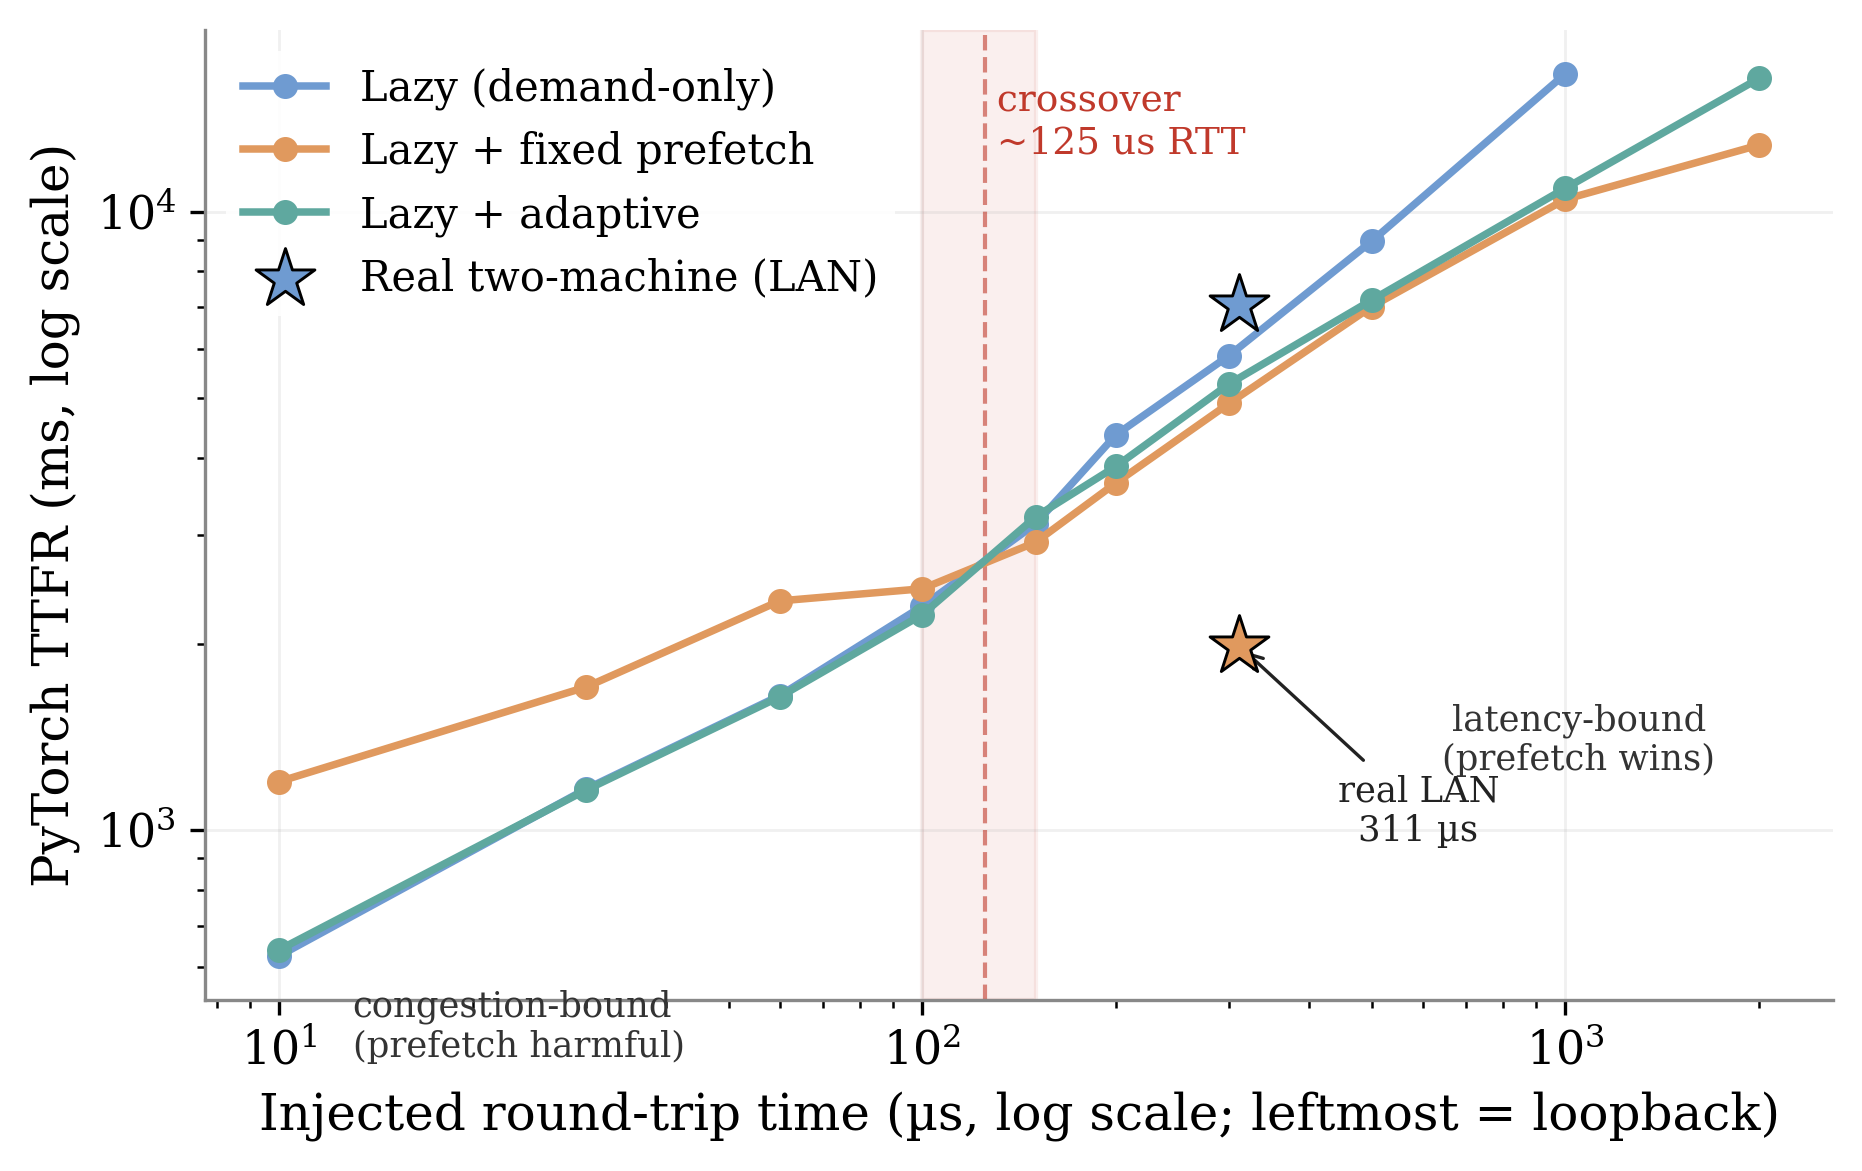
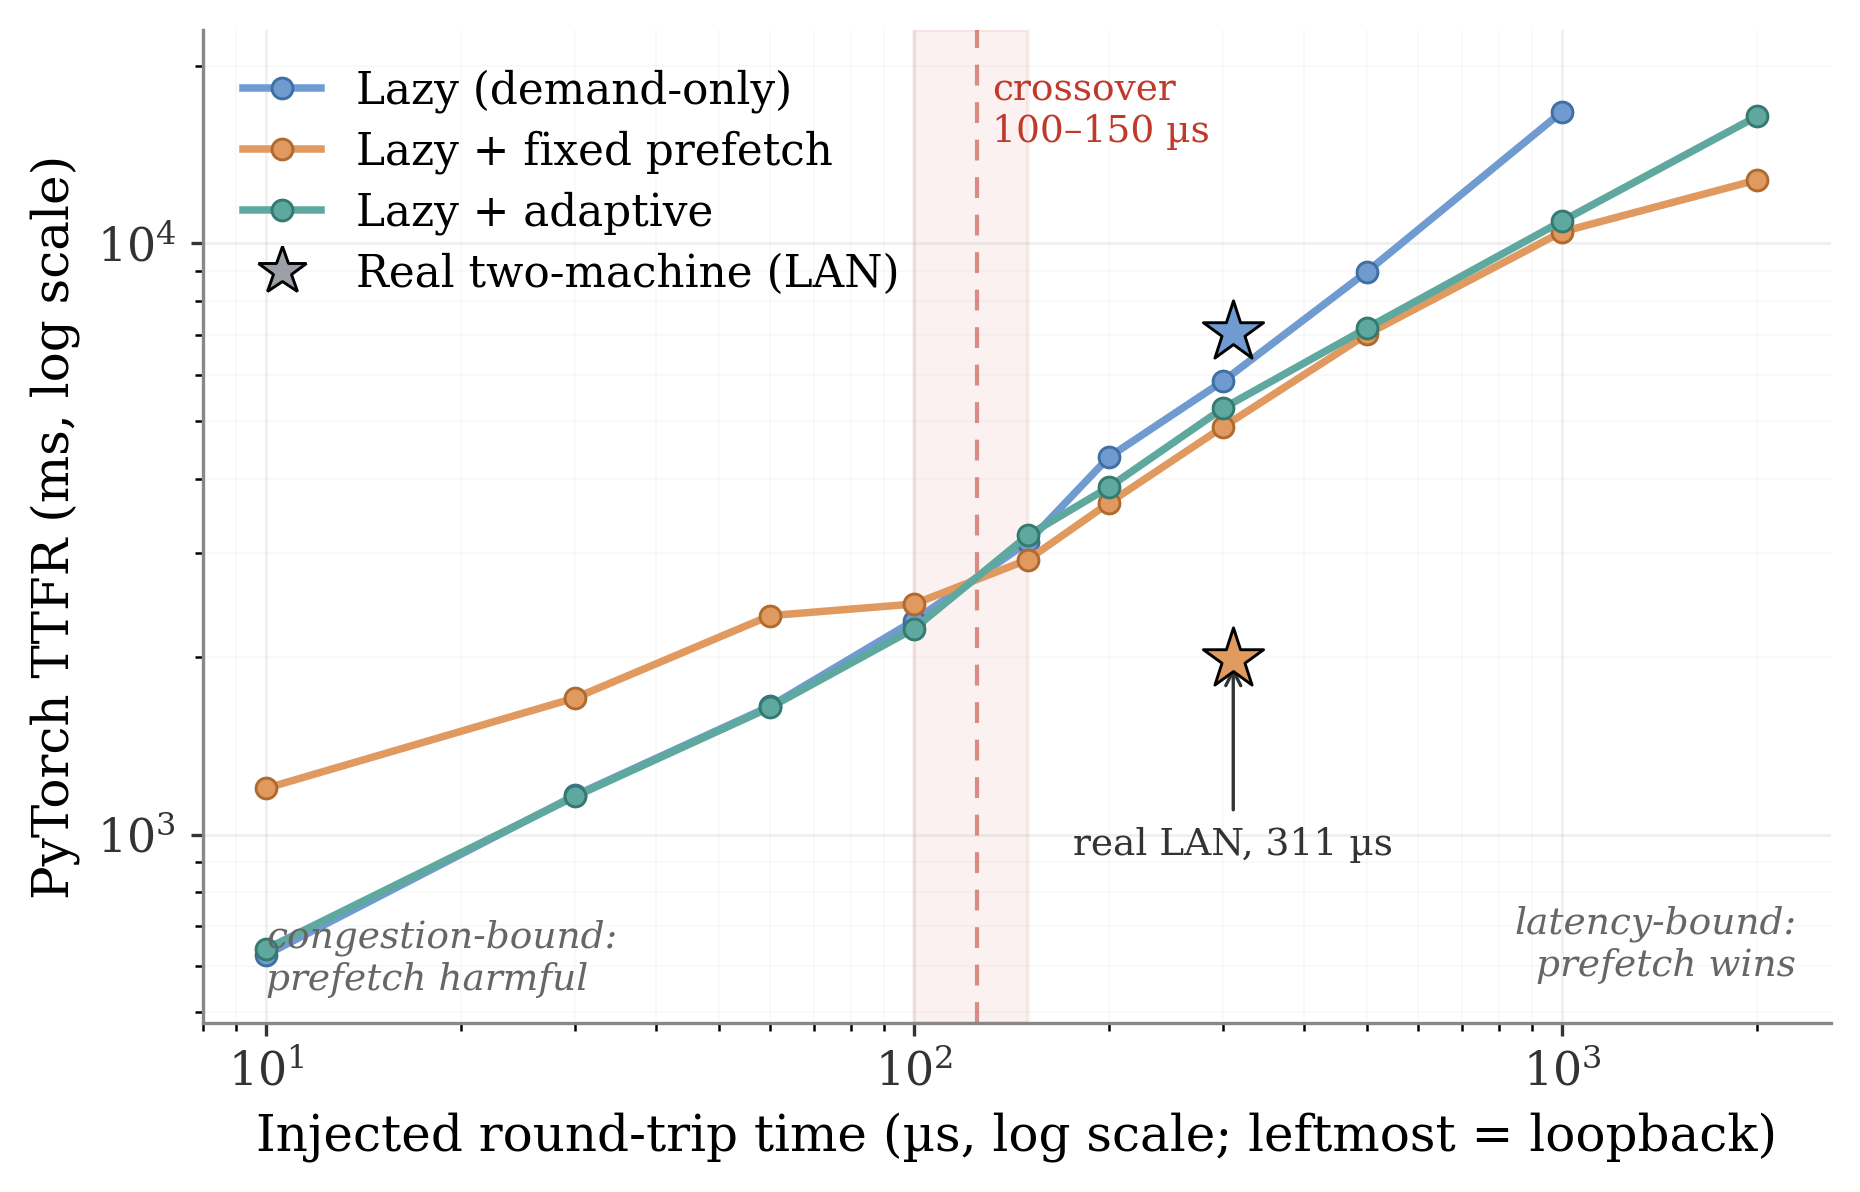
paper: remake fig6 from scratch in the house BeautifulFigures style
Rewrite crosshost_figure.py to import the shared palette + rcParams from
eval/figures.py so fig6 matches fig1-5 exactly: softened grey spines (top/right
dropped), subtle log-log grids, serif fonts, frameon-less upper-left legend with
a neutral star proxy, italic grey regime labels in the empty strips, red
crossover band + '100-150 us' label. Real two-machine stars (lazy on its curve,
fixed below) with a short arrowed 'real LAN, 311 us' tag. Decluttered, no text
over data, vector output.

diff --git a/eval/crosshost_figure.py b/eval/crosshost_figure.py
@@ -1,33 +1,41 @@
 #!/usr/bin/env python3
-"""Generate the cross-host RTT-crossover figure (fig6) from the netem sweeps.
+"""eval/crosshost_figure.py — the RTT-crossover figure (fig6).
 
-Merges eval/results/crosshost/ (coarse) and crosshost-fine/ into one
-TTFR-vs-RTT plot for lazy / fixed-prefetch / adaptive, marking the crossover
-where fixed prefetch flips from harmful to beneficial.
+Remade from scratch to match the house style of eval/figures.py (the
+"BeautifulFigures" principles, A. Churkin): the shared muted palette, decluttered
+axes (top/right spines dropped, softened grey spines), subtle grids behind the
+data, a frameon-less legend placed in the empty upper-left, no in-figure title
+(the caption carries the message), and vector output. Importing eval/figures.py
+applies its rcParams and reuses its exact COLORS/EDGECOLORS so this figure is
+visually consistent with fig1-fig5.
+
+Plots PyTorch TTFR vs. injected RTT (log-log) for lazy / fixed prefetch /
+adaptive from the netem sweeps, marks the 100-150 us crossover band, and overlays
+the real two-machine LAN run (stars) from eval/results/crosshost-2machine/.
 
     ./venv-cpu/bin/python eval/crosshost_figure.py
 """
-import csv, os, statistics as st
+import csv
+import os
+import statistics as st
 from collections import defaultdict
+
 import matplotlib
 matplotlib.use("Agg")
 import matplotlib.pyplot as plt
+from matplotlib.lines import Line2D
 
-COLORS = {"lazy": "#6f9bd1", "lazy-prefetch": "#e0995e", "lazy-adaptive": "#5fa89f", "full": "#bdbdbd"}
-LABELS = {"lazy": "Lazy (demand-only)", "lazy-prefetch": "Lazy + fixed prefetch",
-          "lazy-adaptive": "Lazy + adaptive", "full": "Full restore"}
+# Reuse the shared palette + rcParams (importing applies figures.py rcParams).
+from figures import COLORS, EDGECOLORS, LABELS, THRESHOLD_COLOR, TEXT_COLOR
+
 ROOT = os.path.dirname(os.path.dirname(os.path.abspath(__file__)))
 OUT = os.path.join(ROOT, "eval/results/figures")
-
-plt.rcParams.update({
-    "font.family": "serif", "font.size": 12, "axes.labelsize": 12,
-    "xtick.labelsize": 11, "ytick.labelsize": 11, "legend.fontsize": 10,
-    "axes.linewidth": 0.8, "axes.edgecolor": "#888888",
-    "figure.dpi": 150, "savefig.dpi": 300, "savefig.bbox": "tight",
-})
+MODES = ["lazy", "lazy-prefetch", "lazy-adaptive"]
+REGIME_COLOR = "#666666"
 
 
-def load():
+def load_netem():
+    """Merge coarse + fine netem sweeps: {(rtt_us, mode): [ttfr,...]}."""
     d = defaultdict(list)
     for sub in ("crosshost", "crosshost-fine"):
         p = os.path.join(ROOT, "eval/results", sub, "results-crosshost.csv")
@@ -41,12 +49,11 @@ def load():
 
 
 def load_2machine():
-    """Real two-machine run: {mode: (rtt_us, mean_ttfr)} from results.csv."""
+    """Real two-machine run: (rtt_us, {mode: mean_ttfr})."""
     p = os.path.join(ROOT, "eval/results", "crosshost-2machine", "results.csv")
     if not os.path.exists(p):
         return None
-    vals = defaultdict(list)
-    rtt = None
+    vals, rtt = defaultdict(list), None
     for r in csv.DictReader(open(p)):
         v = int(r["ttfr_ms"])
         if v >= 0:
@@ -56,72 +63,85 @@ def load_2machine():
 
 
 def main():
-    d = load()
+    d = load_netem()
     rtts = sorted({k[0] for k in d})
-    modes = ["lazy", "lazy-prefetch", "lazy-adaptive"]
 
     def series(mode):
         xs, ys = [], []
         for rt in rtts:
             vals = d.get((rt, mode))
             if vals:
-                xs.append(rt if rt > 0 else 10)  # place RTT=0 at 10us on log axis
+                xs.append(rt if rt > 0 else 10)  # show loopback at 10us on log axis
                 ys.append(st.mean(vals))
         return xs, ys
 
-    fig, ax = plt.subplots(figsize=(7.0, 4.2))
+    fig, ax = plt.subplots(figsize=(7.0, 4.3))
+
+    # Crossover band first, so it sits behind the data.
+    ax.axvspan(100, 150, color=THRESHOLD_COLOR, alpha=0.07, zorder=0)
+    ax.axvline(125, color=THRESHOLD_COLOR, linewidth=1.0, linestyle=(0, (5, 4)),
+               alpha=0.55, zorder=1)
+
+    # Netem sweep lines.
+    line_handles = []
+    for m in MODES:
+        xs, ys = series(m)
+        (ln,) = ax.plot(xs, ys, marker="o", markersize=5, linewidth=1.8,
+                        color=COLORS[m], markeredgecolor=EDGECOLORS[m],
+                        markeredgewidth=0.7, label=LABELS[m], zorder=3)
+        line_handles.append(ln)
+
+    # Real two-machine overlay: lazy + fixed stars (their contrast is the point;
+    # adaptive overlaps fixed and is in the table).
+    tm = load_2machine()
+    if tm:
+        tm_rtt, tm_means = tm
+        for m in ("lazy", "lazy-prefetch"):
+            if m in tm_means:
+                ax.scatter(tm_rtt, tm_means[m], marker="*", s=230,
+                           color=COLORS[m], edgecolor="black", linewidth=0.7,
+                           zorder=6)
+        if "lazy-prefetch" in tm_means:
+            ax.annotate(f"real LAN, {tm_rtt} µs",
+                        xy=(tm_rtt, tm_means["lazy-prefetch"]),
+                        xytext=(tm_rtt, tm_means["lazy-prefetch"] * 0.52),
+                        fontsize=9, color=TEXT_COLOR, ha="center", va="top",
+                        arrowprops=dict(arrowstyle="->", color=TEXT_COLOR, lw=0.8))
+
+    # Axes: log-log, decluttered (match figures.py style_axes look).
+    ax.set_xscale("log")
+    ax.set_yscale("log")
+    ax.set_xlim(8, 2600)
+    ax.set_ylim(480, 23000)
     ax.set_axisbelow(True)
     for side in ("top", "right"):
         ax.spines[side].set_visible(False)
     for side in ("left", "bottom"):
         ax.spines[side].set_color("#888888")
+        ax.spines[side].set_linewidth(0.8)
+    ax.tick_params(colors=TEXT_COLOR, length=3, width=0.8)
     ax.grid(True, which="major", linestyle="-", linewidth=0.7, alpha=0.18)
+    ax.grid(True, which="minor", linestyle="-", linewidth=0.4, alpha=0.08)
 
-    for m in modes:
-        xs, ys = series(m)
-        ax.plot(xs, ys, marker="o", markersize=5, linewidth=1.8,
-                color=COLORS[m], label=LABELS[m], zorder=3)
-
-    # Overlay the real two-machine points (star markers) at the measured LAN RTT.
-    tm = load_2machine()
-    if tm:
-        tm_rtt, tm_means = tm
-        first = True
-        # Only the lazy and fixed stars: their contrast (lazy on its curve, fixed
-        # well below) is the message; adaptive overlaps fixed and is in the table.
-        for m in ("lazy", "lazy-prefetch"):
-            if m in tm_means:
-                ax.scatter(tm_rtt, tm_means[m], marker="*", s=220,
-                           color=COLORS[m], edgecolor="black", linewidth=0.7,
-                           zorder=6, label="Real two-machine (LAN)" if first else None)
-                first = False
-        # Tag the fixed-prefetch star (the "emulation conservative" point is in
-        # the caption). Short label, centered, kept inside the axes.
-        if "lazy-prefetch" in tm_means:
-            ax.annotate("real LAN\n%d µs" % tm_rtt,
-                        xy=(tm_rtt, tm_means["lazy-prefetch"]),
-                        xytext=(tm_rtt * 1.9, tm_means["lazy-prefetch"] * 0.62),
-                        fontsize=8.5, color="#222222", ha="center", va="top",
-                        arrowprops=dict(arrowstyle="->", color="#222222", lw=0.8))
-
-    # Crossover band: prefetch flips between RTT 100 and 150 us.
-    ax.axvspan(100, 150, color="#c0392b", alpha=0.08, zorder=0)
-    ax.axvline(125, color="#c0392b", linewidth=1.0, linestyle="--", alpha=0.6, zorder=1)
-    ax.text(125, ax.get_ylim()[1] * 0.92, " crossover\n ~125 us RTT",
-            color="#c0392b", fontsize=9, va="top", ha="left")
-
-    ax.set_xscale("log")
-    ax.set_yscale("log")
     ax.set_xlabel("Injected round-trip time (µs, log scale; leftmost = loopback)")
     ax.set_ylabel("PyTorch TTFR (ms, log scale)")
-    ax.legend(loc="upper left", frameon=True, facecolor="white",
-              framealpha=0.92, edgecolor="none")
 
-    # Annotate the two regimes (placed in empty zones, clear of the curves/stars).
-    ax.text(13, 430, "congestion-bound\n(prefetch harmful)", fontsize=8.5,
-            color="#333333", ha="left")
-    ax.text(1050, 1250, "latency-bound\n(prefetch wins)", fontsize=8.5,
-            color="#333333", ha="center")
+    # Crossover label, top, clear of the upper-left legend.
+    ax.text(132, 19500, "crossover\n100–150 µs", color=THRESHOLD_COLOR,
+            fontsize=9, ha="left", va="top")
+
+    # Regime labels in the empty strips below the curves.
+    ax.text(10, 530, "congestion-bound:\nprefetch harmful", color=REGIME_COLOR,
+            fontsize=9, ha="left", va="bottom", style="italic")
+    ax.text(2300, 560, "latency-bound:\nprefetch wins", color=REGIME_COLOR,
+            fontsize=9, ha="right", va="bottom", style="italic")
+
+    # Legend in the empty upper-left, with a neutral star proxy for the real run.
+    star_proxy = Line2D([], [], marker="*", linestyle="none", markersize=12,
+                        markerfacecolor="#9aa0a6", markeredgecolor="black",
+                        markeredgewidth=0.7, label="Real two-machine (LAN)")
+    ax.legend(handles=line_handles + [star_proxy], loc="upper left",
+              frameon=False, handlelength=1.8, labelspacing=0.4)
 
     for fmt in ("pdf", "png"):
         fig.savefig(os.path.join(OUT, f"fig6_crosshost_rtt.{fmt}"))